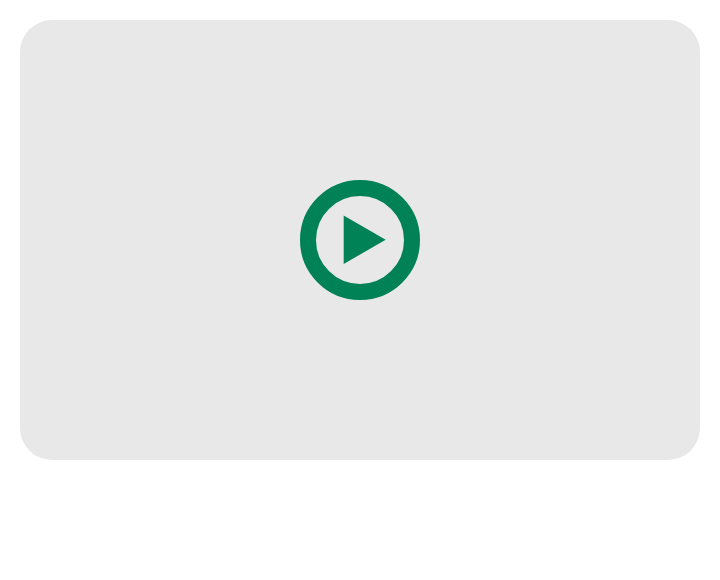
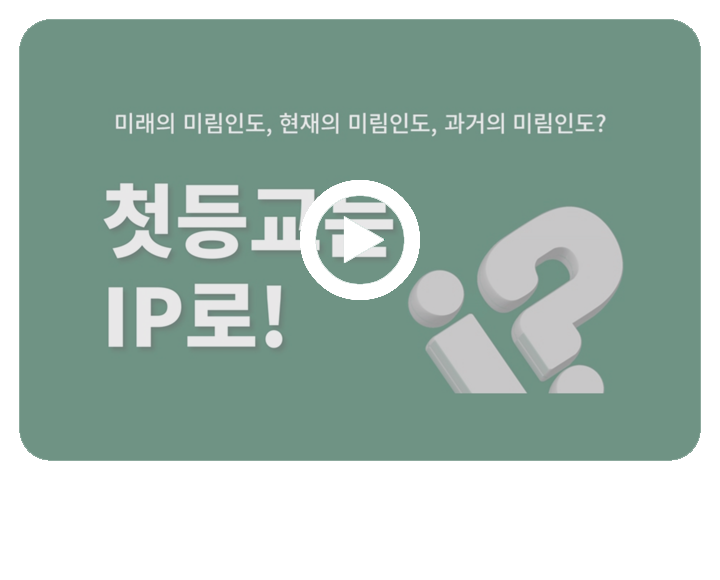
add video, add foo3

diff --git a/js/video.js b/js/video.js
@@ -8,6 +8,7 @@
                 , content = $('.content');
             $('element_to_pop_up').bPopup({
                 onOpen: function() {
+                    alert('하이');
                     content.html(self.data('bpopup') || '');
                 },
                 onClose: function() {
@@ -21,3 +22,9 @@
         });
     });
 })(jQuery);
+
+document.getElementById('video1').addEventListener('ended', function(e) {
+
+    document.getElementById('video1').get(0).currentTime();
+
+})

diff --git a/css/index.css b/css/index.css
@@ -22,8 +22,11 @@ body {
     font-weight: bold;
     font-size: 6vmin;
 }
+.section1 span {
+    font-size: 3.3vmin;
+}
 .section1 > #my-button {
-    width: 26vw;
+    width: 500px;
 }
 .section2 {
     background-color: white;
@@ -54,6 +57,15 @@ body {
     font-weight: bold;
 }
 
+@media (max-width: 992px) {
+    .section1 > #my-button {
+        width: 50vmin;
+
+    }
+    .section1 span {
+        font-size: 3vmin;
+    }
+}
 
 @media (min-width: 1025px){
     #scroll {

diff --git a/index.php b/index.php
@@ -112,7 +112,7 @@
             </div>
 
             <div id="element_to_pop_up">
-                <video width="960" height="720" controls >
+                <video id="video1" width="960" height="720" controls >
                       <source src="video/ip_video.mp4" type="video/mp4">
                     Your browser does not support the video tag.
                 </video>
